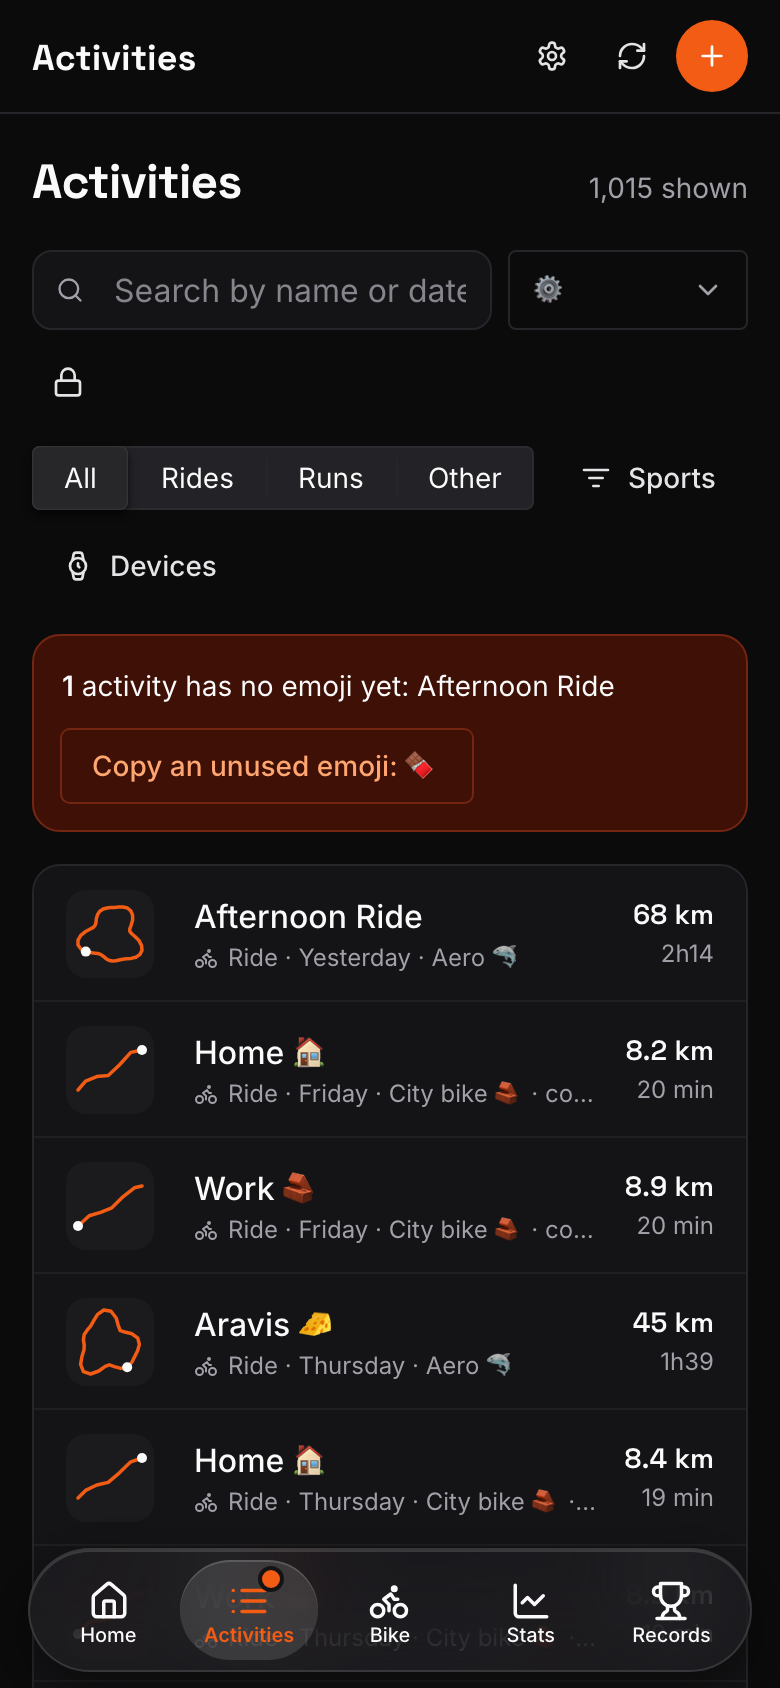
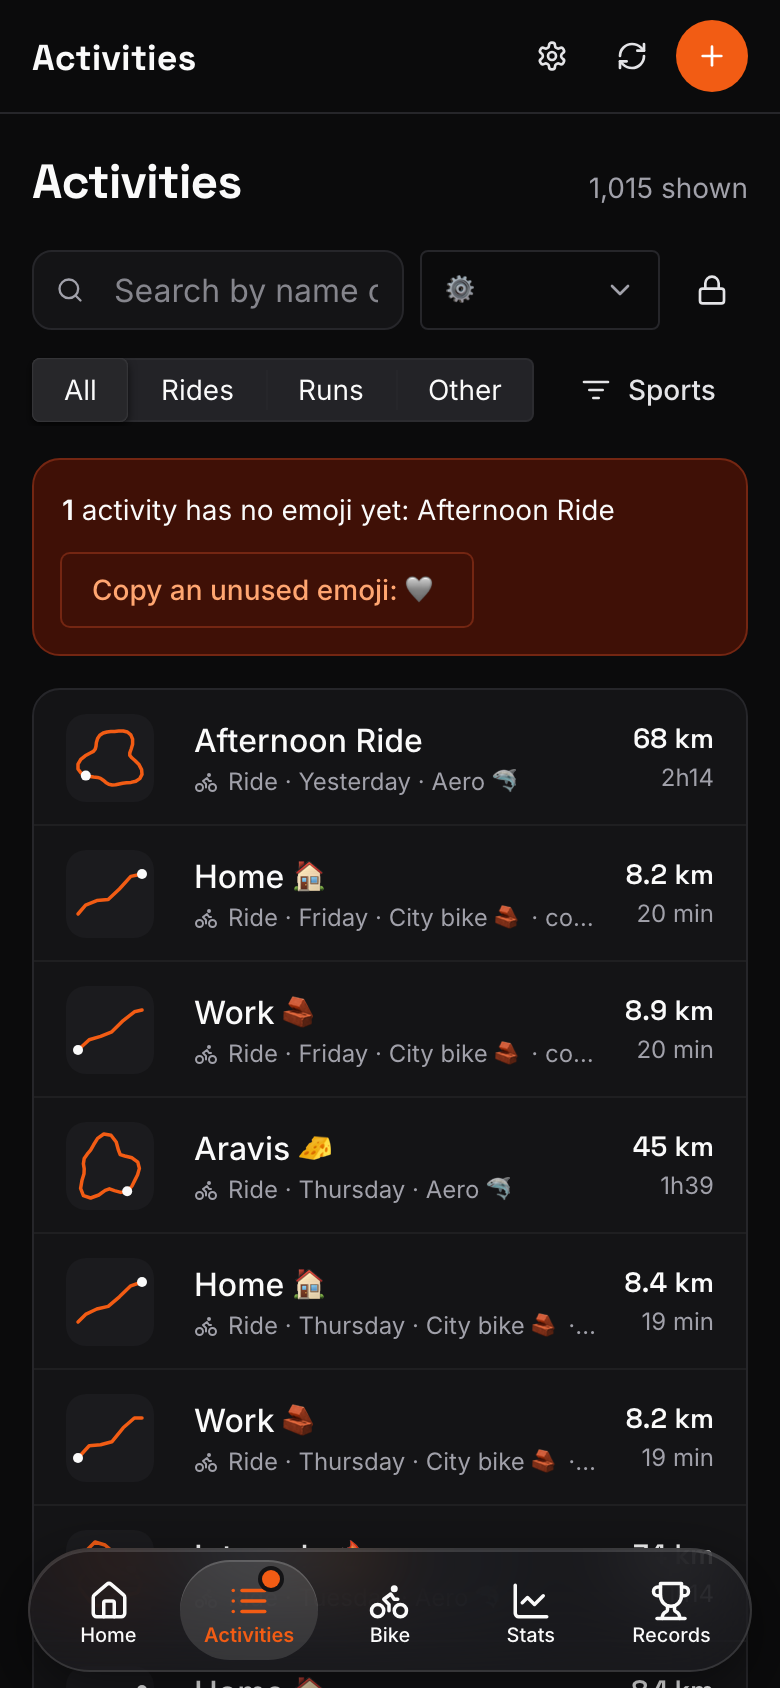
Come back to the activities list as it was left, and keep its phone filters on one line
Filters and sort live in the address and the scroll position is remembered, so going
back from an activity (or its back link) returns to the same filtered list at the same
place. On a phone the filters scroll sideways on one line instead of wrapping.

diff --git a/src/app/pages/ActivitiesPage.tsx b/src/app/pages/ActivitiesPage.tsx
@@ -31,6 +31,27 @@ import {duration, km, relativeDay} from '../format';
 
 type Commute = boolean | 'only';
 
+// Where the list was scrolled to when an activity was opened, with the filters it had then.
+const SCROLL_KEY = 'activities-scroll';
+
+const rememberScroll = (filters: string) => {
+  try {
+    sessionStorage.setItem(SCROLL_KEY, JSON.stringify({filters, y: window.scrollY}));
+  } catch {
+    // Without storage the list just opens at the top.
+  }
+};
+
+const rememberedScroll = (filters: string): number | null => {
+  try {
+    const saved = JSON.parse(sessionStorage.getItem(SCROLL_KEY) ?? 'null') as {filters: string; y: number} | null;
+
+    return null !== saved && saved.filters === filters ? saved.y : null;
+  } catch {
+    return null;
+  }
+};
+
 type SportCount = {sport: string; count: number};
 
 const isRide = (sport: string): boolean => sport.includes('Ride') || 'Velomobile' === sport || 'Handcycle' === sport;
@@ -108,7 +129,7 @@ const Toolbar = ({
   return (
     <Stack gap="12px">
       <HStack gap="8px" flexWrap="wrap">
-        <InputGroup flex="1" minWidth="220px" startElement={<LuSearch />} endElement={'' === search ? undefined : (
+        <InputGroup flex="1" minWidth={{base: '0', md: '220px'}} startElement={<LuSearch />} endElement={'' === search ? undefined : (
           <IconButton aria-label="Clear the search" size="xs" variant="ghost" onClick={() => onSearch('')}>
             <LuX />
           </IconButton>
@@ -162,7 +183,15 @@ const Toolbar = ({
           </Portal>
         </Menu.Root>
       </HStack>
-      <HStack gap="8px" flexWrap="wrap">
+      {/* On a phone the filters stay on one line that scrolls sideways, from edge to edge. */}
+      <HStack
+        gap="8px"
+        flexWrap={{base: 'nowrap', md: 'wrap'}}
+        overflowX={{base: 'auto', md: 'visible'}}
+        marginX={{base: '-16px', md: '0'}}
+        paddingX={{base: '16px', md: '0'}}
+        css={{scrollbarWidth: 'none', '&::-webkit-scrollbar': {display: 'none'}, '& > *': {flexShrink: 0}}}
+      >
         <SegmentGroup.Root
           size="sm"
           value={groupOf(types, sports)}
@@ -274,22 +303,31 @@ const ActivitiesPage = () => {
   const {locale, unprocessedEmoji} = useSettings();
   const {getFtp} = useFtp();
   const {activityMeta} = useActivityMeta();
-  // The device a list is narrowed to lives in the address (?device=), so Records can link to it.
+  // Filters and sort live in the address, so coming back from an activity finds them again
+  // (and Records can link to a device). Defaults are left out to keep the address short.
   const [searchParams, setSearchParams] = useSearchParams();
-  const device = searchParams.get('device');
-  const setDevice = (name: string | null) =>
-    setSearchParams(params => {
-      if (null === name) params.delete('device');
-      else params.set('device', name);
+  const setParams = (changes: Record<string, string | null>) =>
+    setSearchParams(
+      params => {
+        Object.entries(changes).forEach(([name, value]) => (null === value ? params.delete(name) : params.set(name, value)));
 
-      return params;
-    });
+        return params;
+      },
+      {replace: true},
+    );
+  const device = searchParams.get('device');
+  const search = searchParams.get('q') ?? '';
+  const sort = (searchParams.get('sort') ?? 'date') as SortType;
+  const direction: SortDirection = 'asc' === searchParams.get('dir') ? 'asc' : 'desc';
+  const gear = searchParams.get('gear');
+  const gearIds = null === gear ? [] : [gear];
+  const commuteParam = searchParams.get('commute');
+  const commute: Commute = 'only' === commuteParam ? 'only' : 'none' !== commuteParam;
+  const setDevice = (name: string | null) => setParams({device: name});
+  const setSearch = (value: string) => setParams({q: '' === value ? null : value});
+  const setGearIds = (ids: string[]) => setParams({gear: ids[0] ?? null});
+  const setCommute = (value: Commute) => setParams({commute: 'only' === value ? 'only' : value ? null : 'none'});
   const {data: allActivities} = useAllActivities();
-  const [search, setSearch] = useState('');
-  const [sort, setSort] = useState<SortType>('date');
-  const [direction, setDirection] = useState<SortDirection>('desc');
-  const [gearIds, setGearIds] = useState<string[]>([]);
-  const [commute, setCommute] = useState<Commute>(true);
   const [withPrivate, setWithPrivate] = useLocalStorage('withPrivate', false);
   const [columns, setColumns] = useLocalStorage<SortType[]>('sort-types', DEFAULT_SORTS);
   const [types, setTypes] = useLocalStorage<ActivityType[] | null>('activity-types', null);
@@ -310,11 +348,8 @@ const ActivitiesPage = () => {
   const isFiltered = '' !== search || 0 < gearIds.length || true !== commute || null !== types || null !== device;
   // Showing private activities is a preference, not a filter, so it stays as it is.
   const clearFilters = () => {
-    setSearch('');
-    setGearIds([]);
-    setCommute(true);
     setTypes(null);
-    setDevice(null);
+    setParams({q: null, gear: null, commute: null, device: null});
   };
   const showsPrivate = withPrivate || '' !== search;
   // A search looks through private activities too.
@@ -364,13 +399,20 @@ const ActivitiesPage = () => {
     scrollMargin,
   });
 
-  const sortBy = (sortType: SortType) => {
-    if (sortType === sort) setDirection('asc' === direction ? 'desc' : 'asc');
-    else {
-      setSort(sortType);
-      setDirection('desc');
-    }
-  };
+  const sortBy = (sortType: SortType) =>
+    sortType === sort
+      ? setParams({dir: 'asc' === direction ? null : 'asc'})
+      : setParams({sort: 'date' === sortType ? null : sortType, dir: null});
+
+  // Back from an activity: scroll to where the list was, once it is tall enough to get there.
+  const scrollTarget = useRef(rememberedScroll(searchParams.toString()));
+  useLayoutEffect(() => {
+    const target = scrollTarget.current;
+    if (null === target || 0 === rows.length) return;
+
+    window.scrollTo(0, target);
+    if (Math.abs(window.scrollY - target) < 2) scrollTarget.current = null;
+  }, [rows.length, scrollMargin]);
 
   const gridColumns = isWide ? `48px minmax(220px, 1fr) repeat(${shownColumns.length}, ${COLUMN_WIDTH}px)` : '52px 1fr auto';
   const minWidth = isWide ? 48 + 260 + shownColumns.length * COLUMN_WIDTH : undefined;
@@ -489,7 +531,10 @@ const ActivitiesPage = () => {
                   cursor="pointer"
                   opacity={activity.private ? 0.6 : 1}
                   _hover={{background: 'bg.subtle'}}
-                  onClick={() => navigate(`/activities/${activity.id}`)}
+                  onClick={() => {
+                    rememberScroll(searchParams.toString());
+                    navigate(`/activities/${activity.id}`, {state: {list: `/activities?${searchParams}`}});
+                  }}
                 >
                   <RouteThumb activity={activity} size={isWide ? 36 : 44} />
                   <Stack gap="0" minWidth="0" paddingLeft={isWide ? '12px' : '0'}>

diff --git a/src/app/pages/ActivityPage.tsx b/src/app/pages/ActivityPage.tsx
@@ -1,7 +1,7 @@
 import {useMemo, useState} from 'react';
 import {Badge, Box, Button, Grid, HStack, Icon, Image, Skeleton, Stack, Text} from '@chakra-ui/react';
 import {useQuery} from '@tanstack/react-query';
-import {Link, useParams} from 'react-router';
+import {Link, useLocation, useParams} from 'react-router';
 import {LuArrowLeft, LuExternalLink, LuRefreshCw} from 'react-icons/lu';
 import {useActivityMeta, useAllActivities, useFtp, useLabels, useSettings} from '../../hooks';
 import {getFetcher} from '../../hooks/useFetcher';
@@ -137,6 +137,8 @@ const HeartRateZones = ({activity}: {activity: Activity}) => {
 
 const ActivityPage = () => {
   const {activityId} = useParams();
+  // Back to the list as it was left, filters included, when the activity was opened from it.
+  const list = (useLocation().state as {list?: string} | null)?.list ?? '/activities';
   const {data: activities} = useAllActivities();
   const {activityMeta, refetch} = useActivityMeta();
   const {label} = useLabels();
@@ -180,7 +182,7 @@ const ActivityPage = () => {
 
   return (
     <Stack gap={{base: '16px', md: '24px'}}>
-      <Link to="/activities">
+      <Link to={list}>
         <HStack gap="6px" color="fg.muted" fontSize="sm" _hover={{color: 'fg'}}>
           <LuArrowLeft /> Activities
         </HStack>
